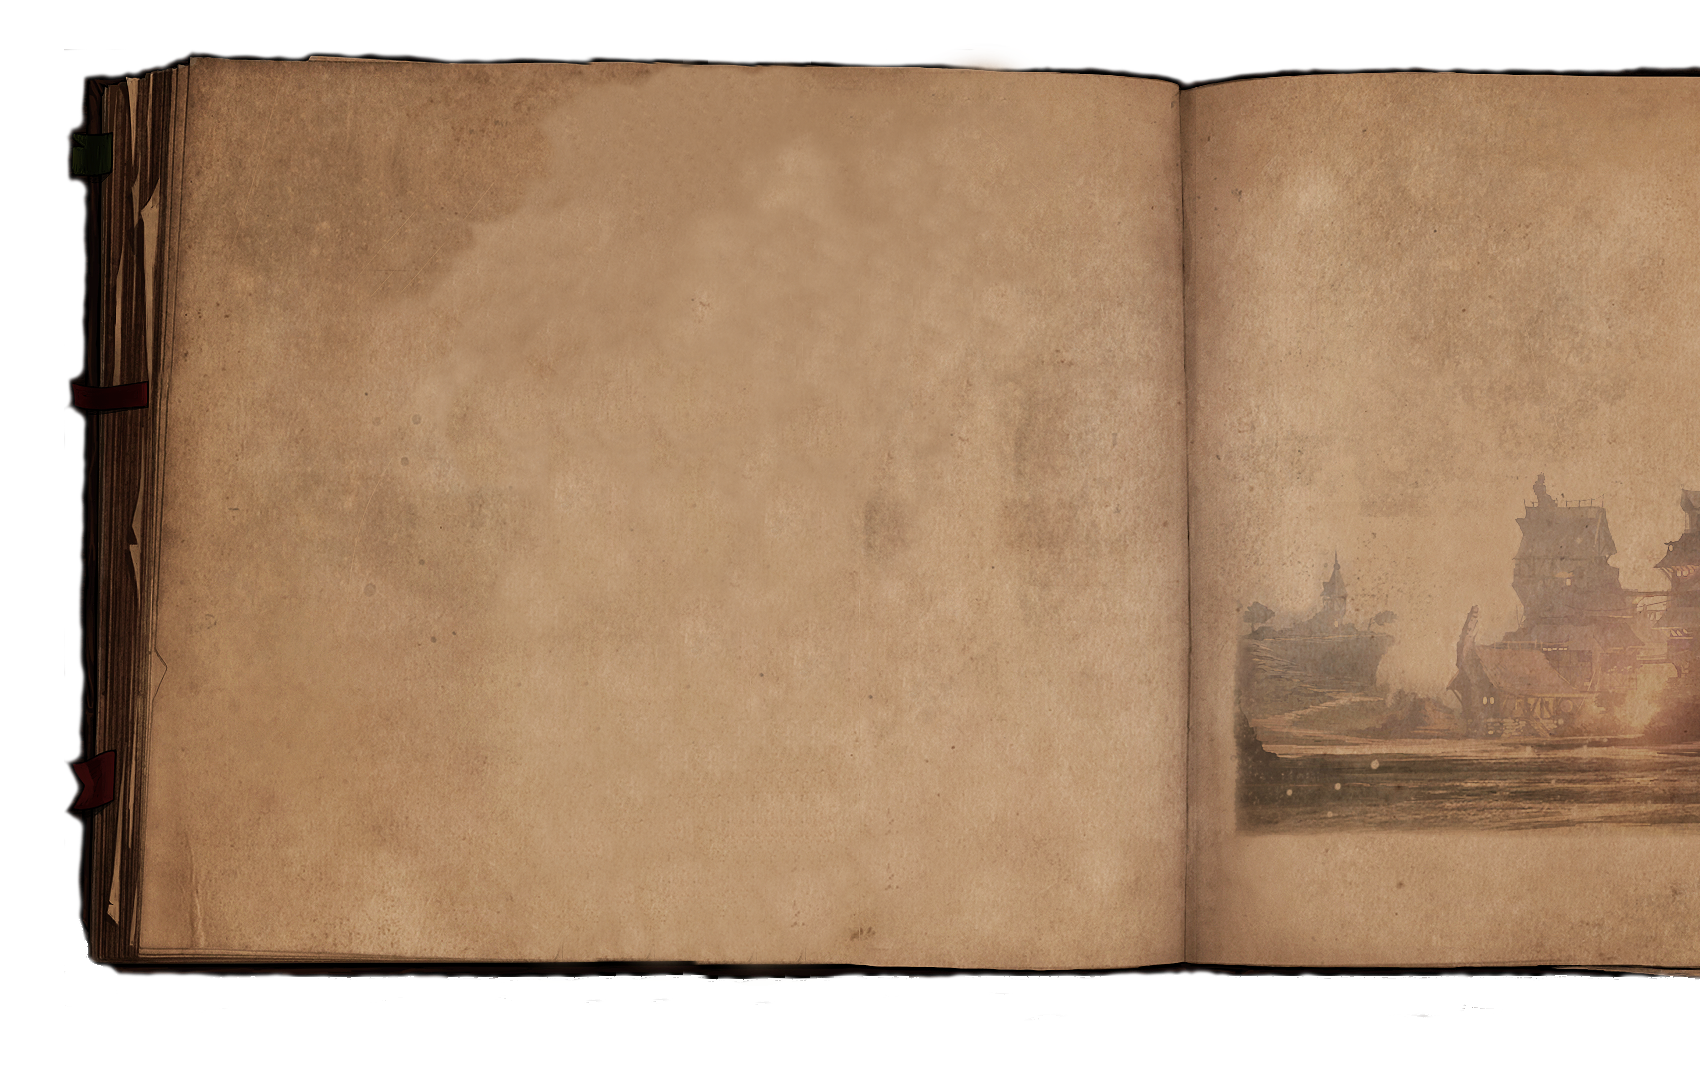
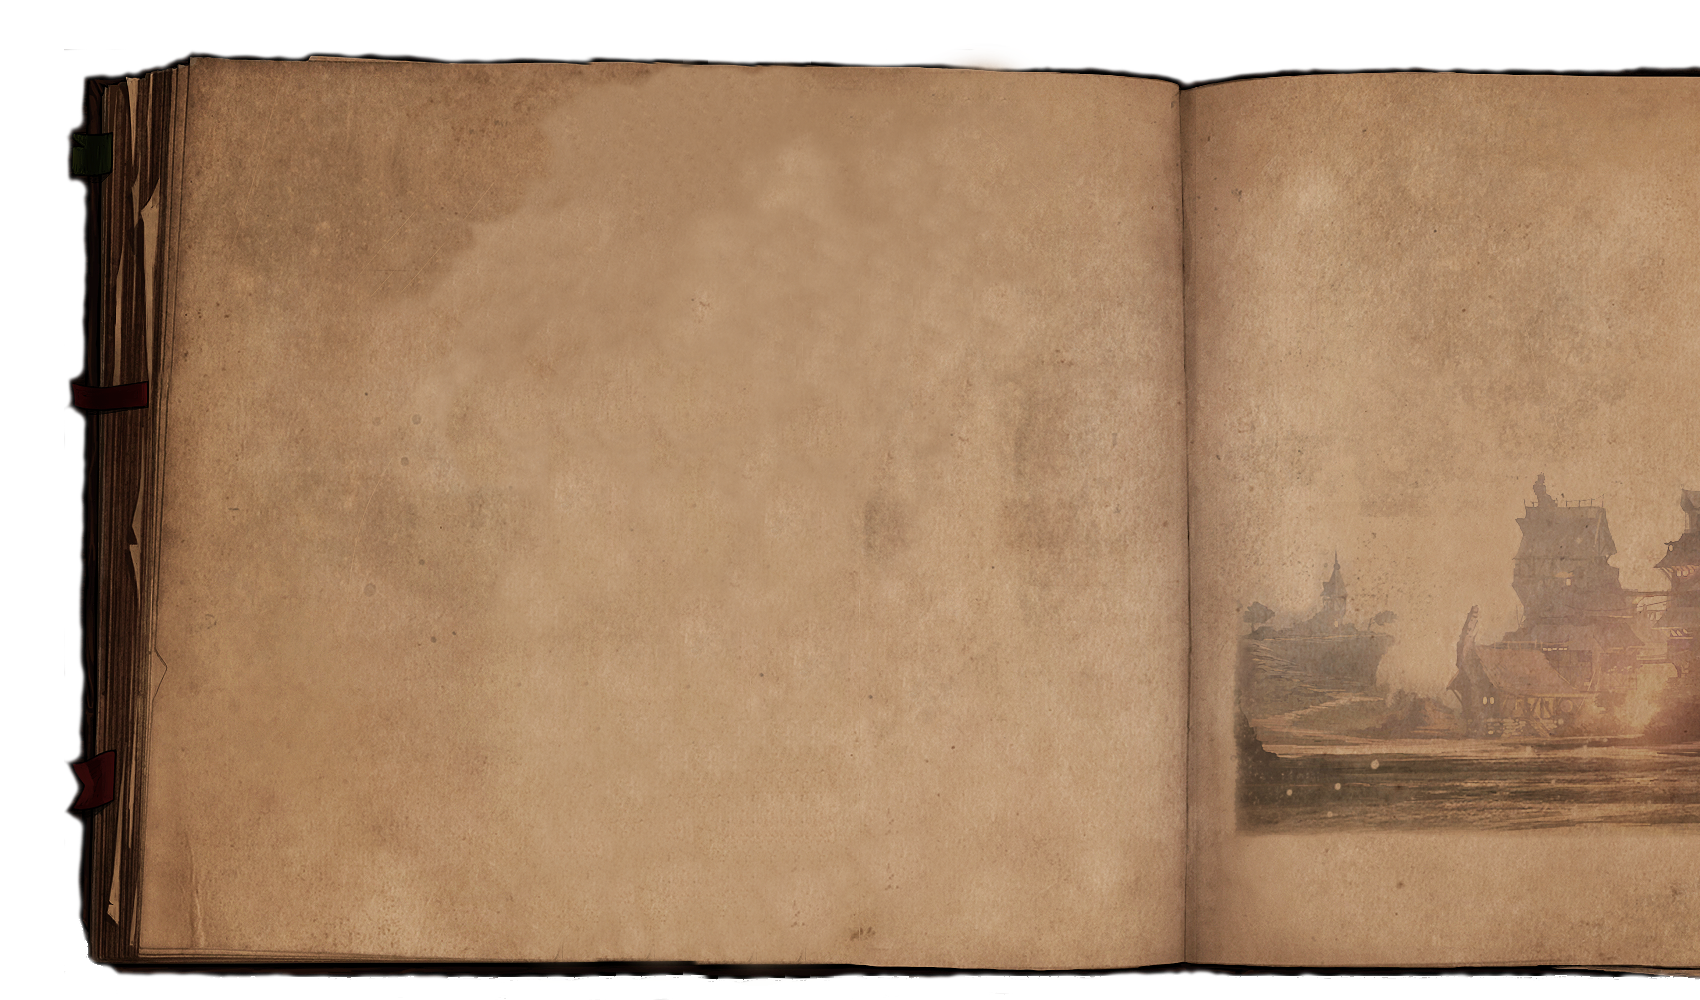
set up mixins for breakpoints, edited new bg images for each size

Changed region(s): [[0.0312, 0.031, 1.0, 0.992], [0.5924, 0.527, 0.6235, 0.558]]

diff --git a/src/assets/styles/global/_global.scss b/src/assets/styles/global/_global.scss
@@ -1,4 +1,8 @@
-@import "_variables.scss";
+@import "./_variables.scss";
+@import "./_mixins.scss";
+
+
+
 
 body {
   background: url('assets/images/darkwood.jpg') no-repeat center center fixed $black;
@@ -10,12 +14,25 @@ body {
   position: absolute;
   top: 0;
   left: 0;
-  bottom: 10px;
+  bottom: 0px;
   right: 0;
   border: 5px solid black;
-
-  background: url('assets/images/lorebook_md.png') no-repeat center center fixed;
-
+  @include mobile {
+    background: url('assets/images/parchment.png') no-repeat center center;
+    background-size: 100%;
+  }
+  @include tablet {
+    background: url('assets/images/lorebook_tablet.png') no-repeat right bottom fixed;
+    background-size: 100%;
+  }
+  @include laptop {
+    background: url('assets/images/lorebook_sm.png') no-repeat right bottom fixed;
+    background-size: 100%;
+  }
+  @include desktop {
+    background: url('assets/images/lorebook_lg.png') no-repeat right bottom fixed;
+    background-size: contain;
+  }
 }
 
 h1 {

diff --git a/src/app.js b/src/app.js
@@ -4,16 +4,14 @@ import ReactDOM from 'react-dom';
 // import { BrowserRouter, Route } from 'react-router-dom';
 
 require('./main.scss');
-import Header from './modules/Header';
 import Main from './modules/Main';
-import Footer from './modules/Footer';
+// import Footer from './modules/Footer';
 
 class App extends React.Component {
   render() {
     return (
       <div className="container">
         <Main />
-        <Footer />
       </div>
     );
   }

diff --git a/src/assets/styles/global/_mixins.scss b/src/assets/styles/global/_mixins.scss
@@ -1,0 +1,16 @@
+/* BREAKPOINTS */
+@mixin mobile {
+  @media (max-width: 599px) { @content; }
+}
+@mixin tablet {
+  @media (min-width: 600px) { @content; }
+}
+@mixin laptop {
+  @media (min-width: 900px) { @content; }
+}
+@mixin desktop {
+  @media (min-width: 1200px) { @content; }
+}
+@mixin ultra {
+  @media (min-width: 1800px) { @content; }
+}

diff --git a/webpack.config.js b/webpack.config.js
@@ -33,6 +33,7 @@ module.exports = {
       {
         test: /\.scss$/,
         use: ExtractTextPlugin.extract({fallback: 'style-loader', use: ['css-loader', 'sass-loader']})
+        // use: ExtractTextPlugin.extract({use: ['style-loader', 'css-loader', 'sass-loader']})
       },
       {
         test: /\.html$/,

diff --git a/README.md b/README.md
@@ -1,3 +1,8 @@
-Verminlore is an unofficial fansite for the "Warhammer: End Times - Vermintide" series, and has no affiliation with its developer, Fatshark, nor do I claim any ownership of image assets used. This was created as a practice project to utilize a development environment and work with HTML/CSS/ReactJS.
+###About Verminlore
 
-Verminlore is roleplayed from the perspective of a historian tracking the events of the Vermintide game.
+Verminlore is an unofficial fansite for the "Warhammer: End Times - Vermintide" series, and has no affiliation with its developer, Fatshark, nor do I claim any ownership of image assets used. Verminlore is roleplayed from the perspective of a historian tracking canon events from the Vermintide game, so all events depicted are fictional and creative.
+
+###About the Project
+I created this website as a practice project to utilize a development environment and work with HTML/CSS/JS. Everything is contained as a single-page app through ReactJS, and coded from scratch instead of using `create-react-app`. This was for learning purposes and to understand how different parts fit together. I used Webpack and npm scripts to manage and transpile files from the `src` directory which contains my work, into the `dist` or `docs` folder which contains the finished build published on gh-pages.
+- The website is responsive and follows mobile-first design, with breakpoints at 600px, 900px, and 1200px.
+- Sass was used as a css preprocessor and compiled into a separate stylesheet instead of using React `styled-components` or inline styling for two reasons: 1) separation of concerns, and allowing for designers to change styling without having to deal with JavaScript code, and 2) to practice using SCSS functionalities.
